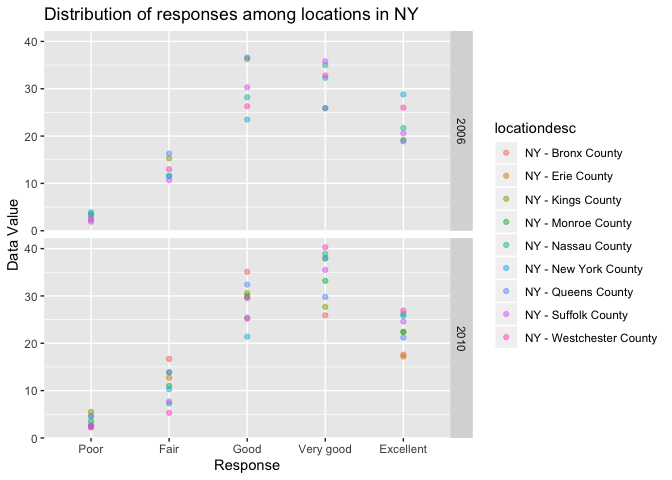
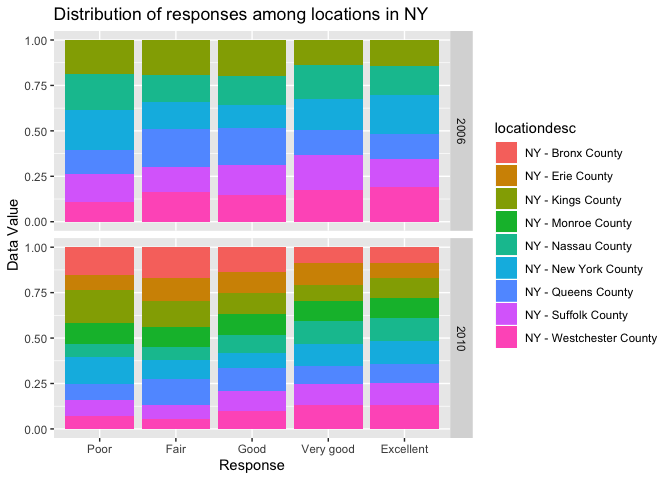
Made changes to the plot !

diff --git a/p8105_hw3_Ec3342.md b/p8105_hw3_Ec3342.md
@@ -27,13 +27,14 @@ aisle name is shown on y axis so that it is more legible.
 
 ``` r
 insta_aisles %>% 
-  filter(aisle_order_count > 10000) %>% 
-  ggplot(aes(x = aisle_order_count, y = aisle)) + geom_point()
+  filter(aisle_order_count > 10000) %>% #limiting to aisles with more than 10000 items ordered.
+  ggplot(aes(x = aisle_order_count, y = aisle)) + geom_point() #creating a scatter plot with aisle name on y axis to make it more legible.
 ```
 
-![](p8105_hw3_Ec3342_files/figure-gfm/ggplot-1.png)<!-- --> Creating a
-table showing the three most popular items in each of the aisles “baking
-ingredients”, “dog food care”, and “packaged vegetables
+![](p8105_hw3_Ec3342_files/figure-gfm/ggplot-1.png)<!-- -->
+
+Creating a table showing the three most popular items in each of the
+aisles “baking ingredients”, “dog food care”, and “packaged vegetables
 fruits”.Including the number of times each item is ordered.
 
 ``` r
@@ -238,8 +239,8 @@ plot = brfss_smart2010 %>%
 ```
 
 ``` r
-ggplot(plot, aes(x = response, y = data_value, color = locationdesc)) +
-  geom_point(alpha = 0.5) +
+ggplot(plot, aes(x = response, y = data_value, fill = locationdesc)) +
+  geom_bar(stat = "identity", position = "fill") +
   facet_grid(year ~.) +
   labs(x = "Response", y = "Data Value", title = "Distribution of responses among locations in NY")
 ```
